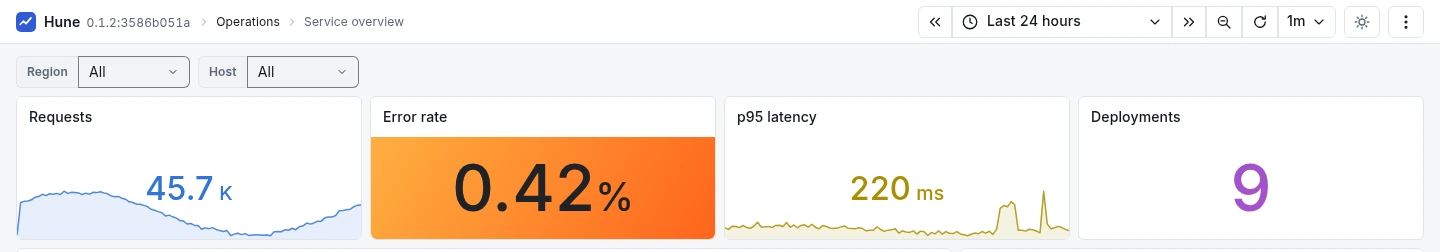
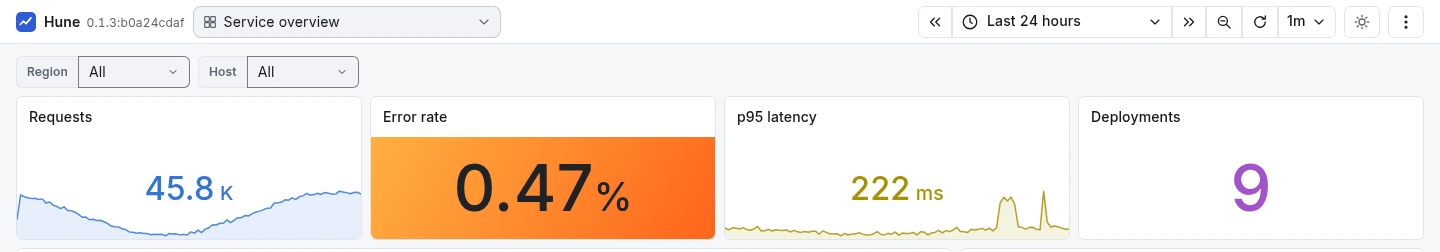
Regenerate the screenshots of the documentation
The list page, the header, the loading states, the editor and the colors
of the tags changed. All 18 pictures show the new look. The picture of the
list waits for the button New, which holds the actions now.

diff --git a/docs/index.html b/docs/index.html
@@ -80,7 +80,7 @@
   <div class="wrap">
     <div class="section-head"><h2 id="see-h">See it</h2>
     <p>Each picture comes from a live copy of the product, with synthetic demo data. Nothing is mocked.</p></div>
-    <div class="shots"><figure class="shot"><img src="assets/img/hero.webp" width="1440" height="940" alt="A dashboard in the light theme: stat panels, a time series, a table and a bar chart" decoding="async" loading="lazy"><figcaption><strong>Dashboards.</strong> Stat panels, time series, tables and charts over a ClickHouse source.</figcaption></figure><figure class="shot"><img src="assets/img/dashboard-dark.webp" width="1440" height="940" alt="The same dashboard in the dark theme" decoding="async" loading="lazy"><figcaption><strong>Two themes.</strong> The page has a light theme and a dark theme.</figcaption></figure><figure class="shot"><img src="assets/img/charts-light.webp" width="1440" height="750" alt="A dashboard of charts in the light theme" decoding="async" loading="lazy"><figcaption><strong>Charts.</strong> Time series with thresholds, bar charts and more.</figcaption></figure><figure class="shot"><img src="assets/img/charts-dark.webp" width="1440" height="750" alt="A dashboard of charts in the dark theme" decoding="async" loading="lazy"><figcaption><strong>Dark charts.</strong> The charts follow the theme of the page.</figcaption></figure><figure class="shot"><img src="assets/img/table.webp" width="1440" height="448" alt="A table panel with coloured cells" decoding="async" loading="lazy"><figcaption><strong>Tables.</strong> Cell colours by thresholds, links and sorting.</figcaption></figure><figure class="shot"><img src="assets/img/list.webp" width="1440" height="582" alt="The list of dashboards with folders" decoding="async" loading="lazy"><figcaption><strong>Folders.</strong> A dashboard list with one level of folders.</figcaption></figure><figure class="shot"><img src="assets/img/variables.webp" width="1440" height="470" alt="Variable controls and the open time picker" decoding="async" loading="lazy"><figcaption><strong>Variables and time.</strong> Variables, the time picker and the refresh.</figcaption></figure><figure class="shot"><img src="assets/img/editor.webp" width="1440" height="900" alt="The panel editor with the query editor and the preview" decoding="async" loading="lazy"><figcaption><strong>Editor.</strong> The query editor, the options and a live preview.</figcaption></figure><figure class="shot"><img src="assets/img/history.webp" width="1440" height="320" alt="The history of versions of a dashboard" decoding="async" loading="lazy"><figcaption><strong>History.</strong> Each save is a version. You can compare and restore.</figcaption></figure><figure class="shot"><img src="assets/img/inspect.webp" width="1440" height="900" alt="The inspect view of a panel query" decoding="async" loading="lazy"><figcaption><strong>Inspect.</strong> The SQL that the server sent, the time and the rows.</figcaption></figure><figure class="shot"><img src="assets/img/loader.webp" width="1440" height="560" alt="A panel that shows three pulsing dots while it loads" decoding="async" loading="lazy"><figcaption><strong>Loader.</strong> Three small dots show that a panel loads.</figcaption></figure><figure class="shot"><img src="assets/img/latency.webp" width="1440" height="1092" alt="A dashboard with gauges, a heatmap, a histogram, a state timeline and a logs panel" decoding="async" loading="lazy"><figcaption><strong>More panel types.</strong> Gauges, heatmaps, histograms, state timelines and logs.</figcaption></figure><figure class="shot"><img src="assets/img/diff.webp" width="1440" height="900" alt="The comparison of two versions of a dashboard" decoding="async" loading="lazy"><figcaption><strong>Compare.</strong> The editor shows the change between two versions of a document.</figcaption></figure><figure class="shot"><img src="assets/img/access-readonly.webp" width="1440" height="252" alt="A dashboard in the read-only view, without the Edit switch" decoding="async" loading="lazy"><figcaption><strong>Read only.</strong> A person without the write grant sees no Edit switch.</figcaption></figure><figure class="shot"><img src="assets/img/access-refused.webp" width="1440" height="360" alt="The refusal that the page shows when the PDP says no" decoding="async" loading="lazy"><figcaption><strong>Refusal.</strong> The PDP refuses a dashboard. Hune shows no data of it.</figcaption></figure><figure class="shot"><img src="assets/img/mobile.webp" width="390" height="1500" alt="A dashboard at the width of a phone" decoding="async" loading="lazy"><figcaption><strong>Narrow screens.</strong> The grid becomes one column.</figcaption></figure></div>
+    <div class="shots"><figure class="shot"><img src="assets/img/hero.webp" width="1440" height="940" alt="A dashboard in the light theme: stat panels, a time series, a table and a bar chart" decoding="async" loading="lazy"><figcaption><strong>Dashboards.</strong> Stat panels, time series, tables and charts over a ClickHouse source.</figcaption></figure><figure class="shot"><img src="assets/img/dashboard-dark.webp" width="1440" height="940" alt="The same dashboard in the dark theme" decoding="async" loading="lazy"><figcaption><strong>Two themes.</strong> The page has a light theme and a dark theme.</figcaption></figure><figure class="shot"><img src="assets/img/charts-light.webp" width="1440" height="750" alt="A dashboard of charts in the light theme" decoding="async" loading="lazy"><figcaption><strong>Charts.</strong> Time series with thresholds, bar charts and more.</figcaption></figure><figure class="shot"><img src="assets/img/charts-dark.webp" width="1440" height="750" alt="A dashboard of charts in the dark theme" decoding="async" loading="lazy"><figcaption><strong>Dark charts.</strong> The charts follow the theme of the page.</figcaption></figure><figure class="shot"><img src="assets/img/table.webp" width="1440" height="448" alt="A table panel with coloured cells" decoding="async" loading="lazy"><figcaption><strong>Tables.</strong> Cell colours by thresholds, links and sorting.</figcaption></figure><figure class="shot"><img src="assets/img/list.webp" width="1440" height="540" alt="The list of dashboards with folders" decoding="async" loading="lazy"><figcaption><strong>Folders.</strong> A dashboard list with one level of folders.</figcaption></figure><figure class="shot"><img src="assets/img/variables.webp" width="1440" height="470" alt="Variable controls and the open time picker" decoding="async" loading="lazy"><figcaption><strong>Variables and time.</strong> Variables, the time picker and the refresh.</figcaption></figure><figure class="shot"><img src="assets/img/editor.webp" width="1440" height="900" alt="The panel editor with the query editor and the preview" decoding="async" loading="lazy"><figcaption><strong>Editor.</strong> The query editor, the options and a live preview.</figcaption></figure><figure class="shot"><img src="assets/img/history.webp" width="1440" height="320" alt="The history of versions of a dashboard" decoding="async" loading="lazy"><figcaption><strong>History.</strong> Each save is a version. You can compare and restore.</figcaption></figure><figure class="shot"><img src="assets/img/inspect.webp" width="1440" height="900" alt="The inspect view of a panel query" decoding="async" loading="lazy"><figcaption><strong>Inspect.</strong> The SQL that the server sent, the time and the rows.</figcaption></figure><figure class="shot"><img src="assets/img/loader.webp" width="1440" height="560" alt="A panel that shows three pulsing dots while it loads" decoding="async" loading="lazy"><figcaption><strong>Loader.</strong> Three small dots show that a panel loads.</figcaption></figure><figure class="shot"><img src="assets/img/latency.webp" width="1440" height="1092" alt="A dashboard with gauges, a heatmap, a histogram, a state timeline and a logs panel" decoding="async" loading="lazy"><figcaption><strong>More panel types.</strong> Gauges, heatmaps, histograms, state timelines and logs.</figcaption></figure><figure class="shot"><img src="assets/img/diff.webp" width="1440" height="900" alt="The comparison of two versions of a dashboard" decoding="async" loading="lazy"><figcaption><strong>Compare.</strong> The editor shows the change between two versions of a document.</figcaption></figure><figure class="shot"><img src="assets/img/access-readonly.webp" width="1440" height="252" alt="A dashboard in the read-only view, without the Edit switch" decoding="async" loading="lazy"><figcaption><strong>Read only.</strong> A person without the write grant sees no Edit switch.</figcaption></figure><figure class="shot"><img src="assets/img/access-refused.webp" width="1440" height="360" alt="The refusal that the page shows when the PDP says no" decoding="async" loading="lazy"><figcaption><strong>Refusal.</strong> The PDP refuses a dashboard. Hune shows no data of it.</figcaption></figure><figure class="shot"><img src="assets/img/mobile.webp" width="390" height="1500" alt="A dashboard at the width of a phone" decoding="async" loading="lazy"><figcaption><strong>Narrow screens.</strong> The grid becomes one column.</figcaption></figure></div>
   </div>
 </section>
 <section class="section alt" aria-labelledby="features-h">
